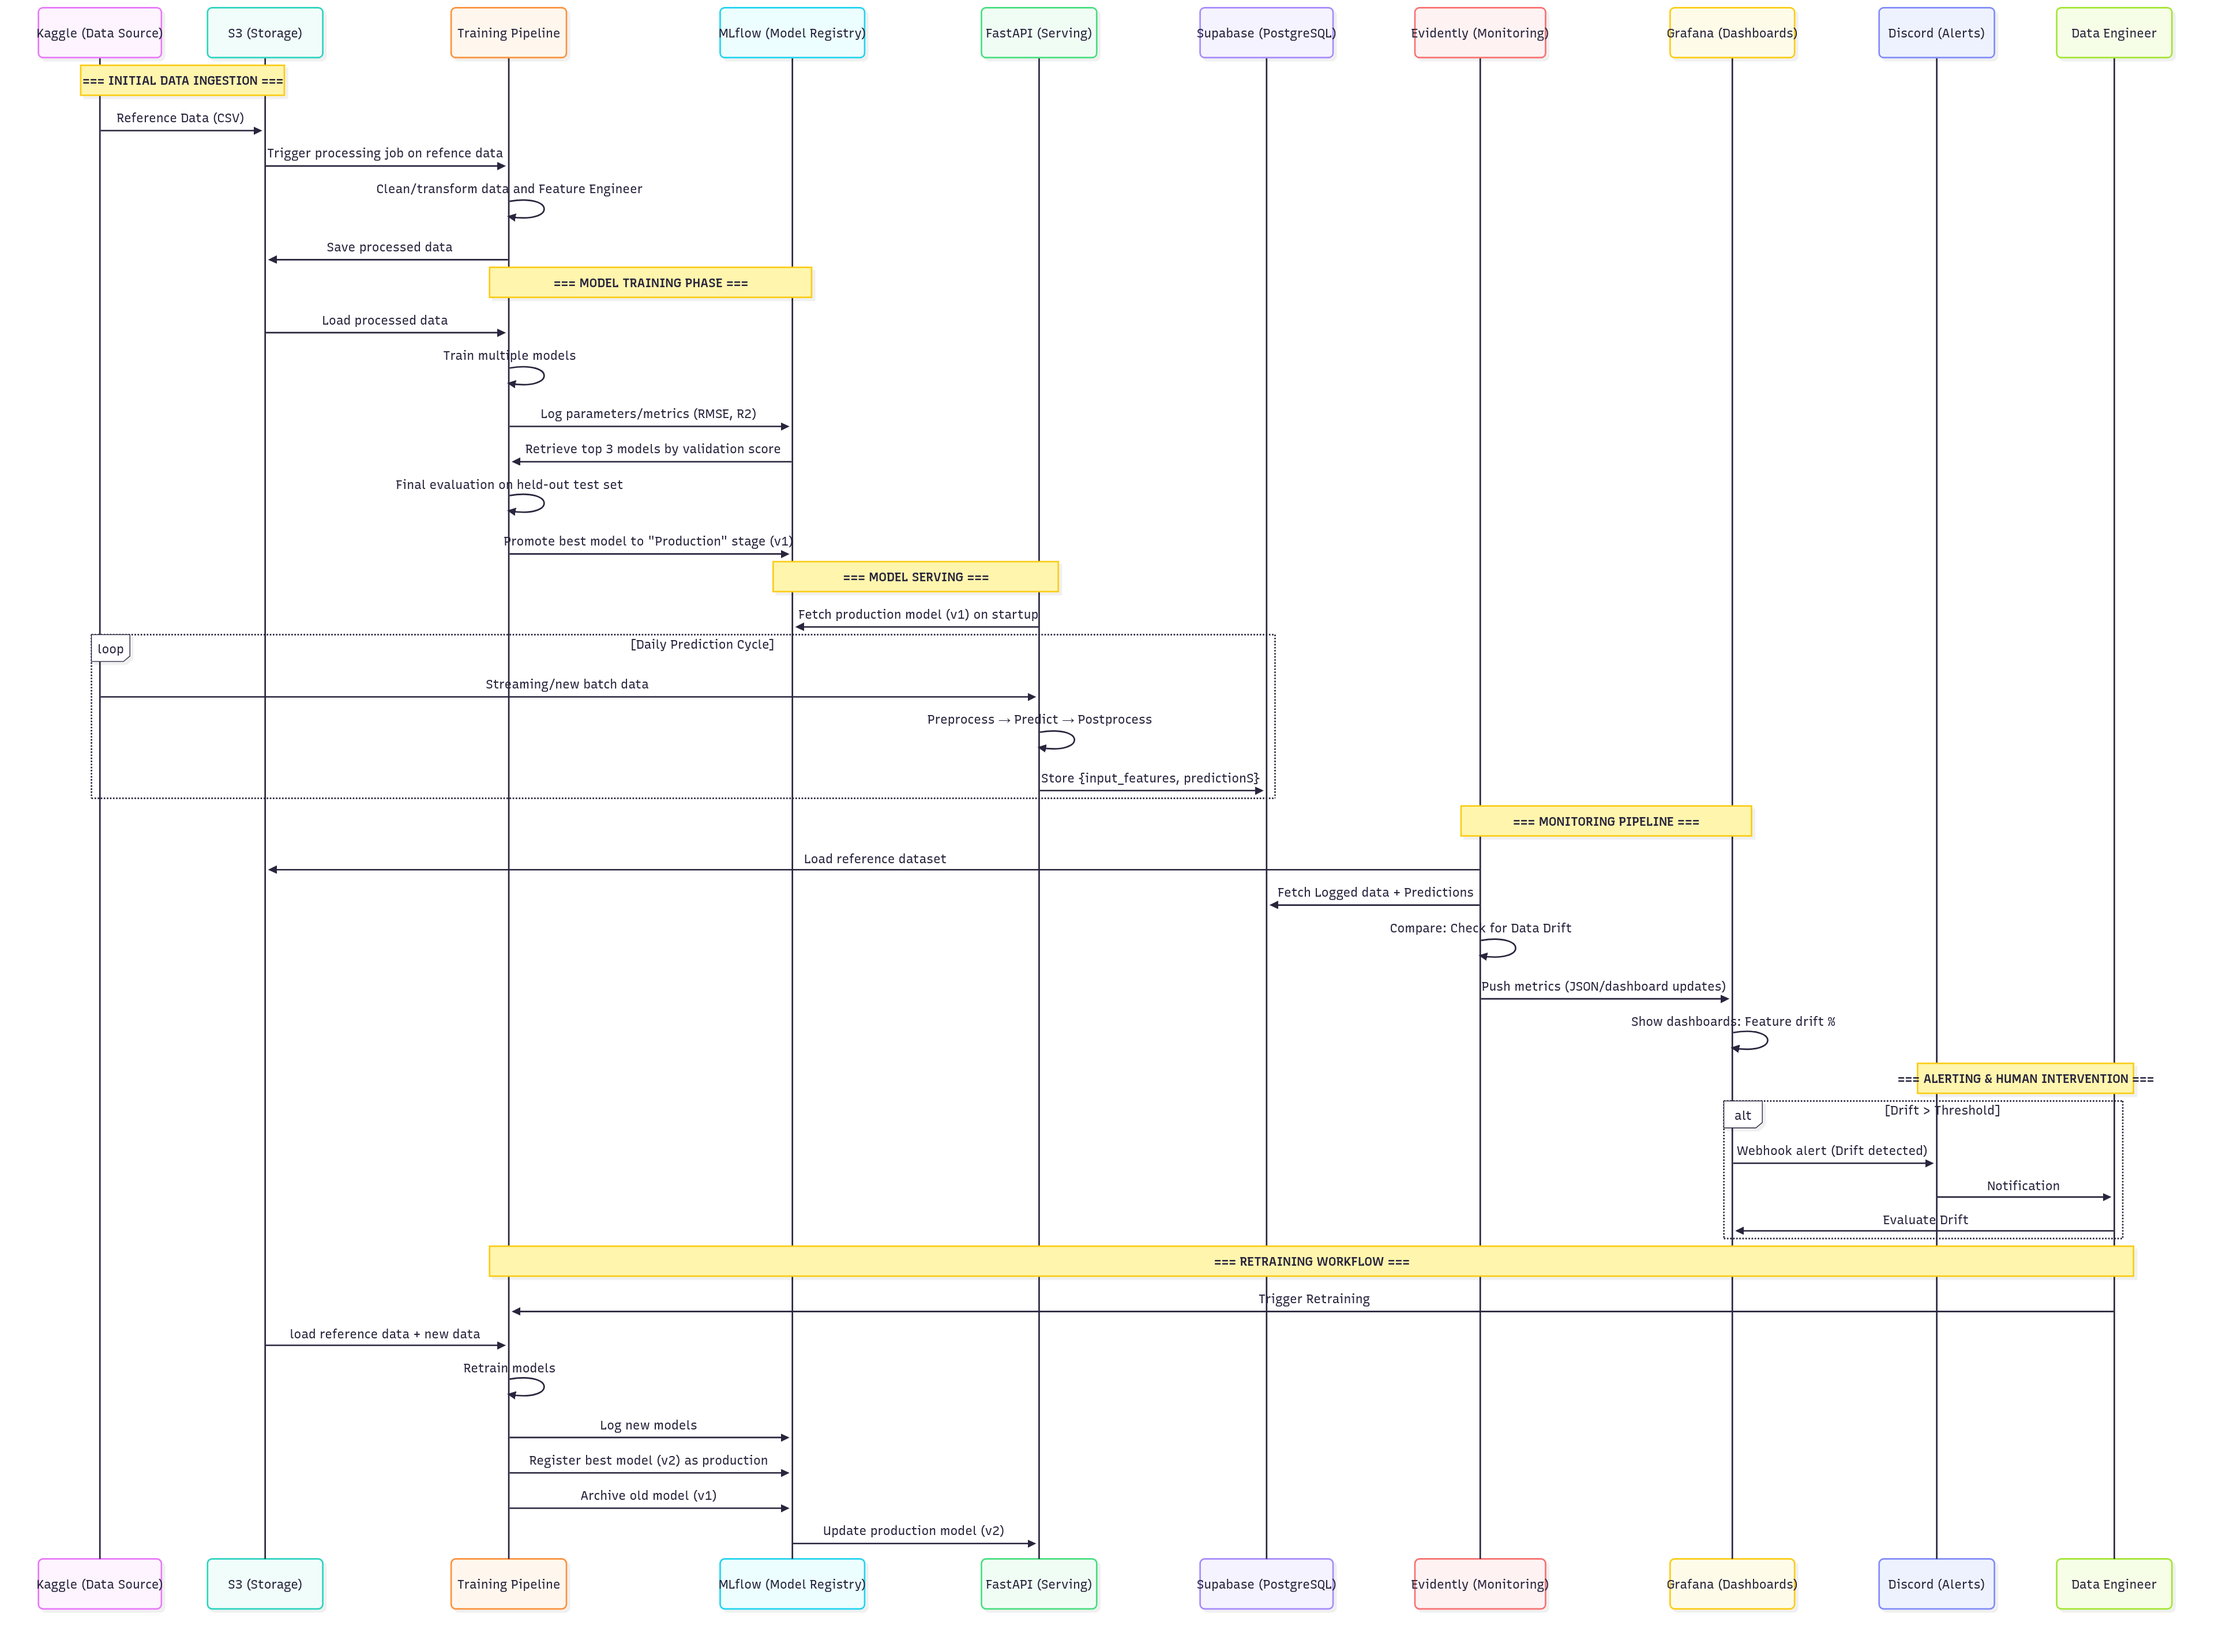
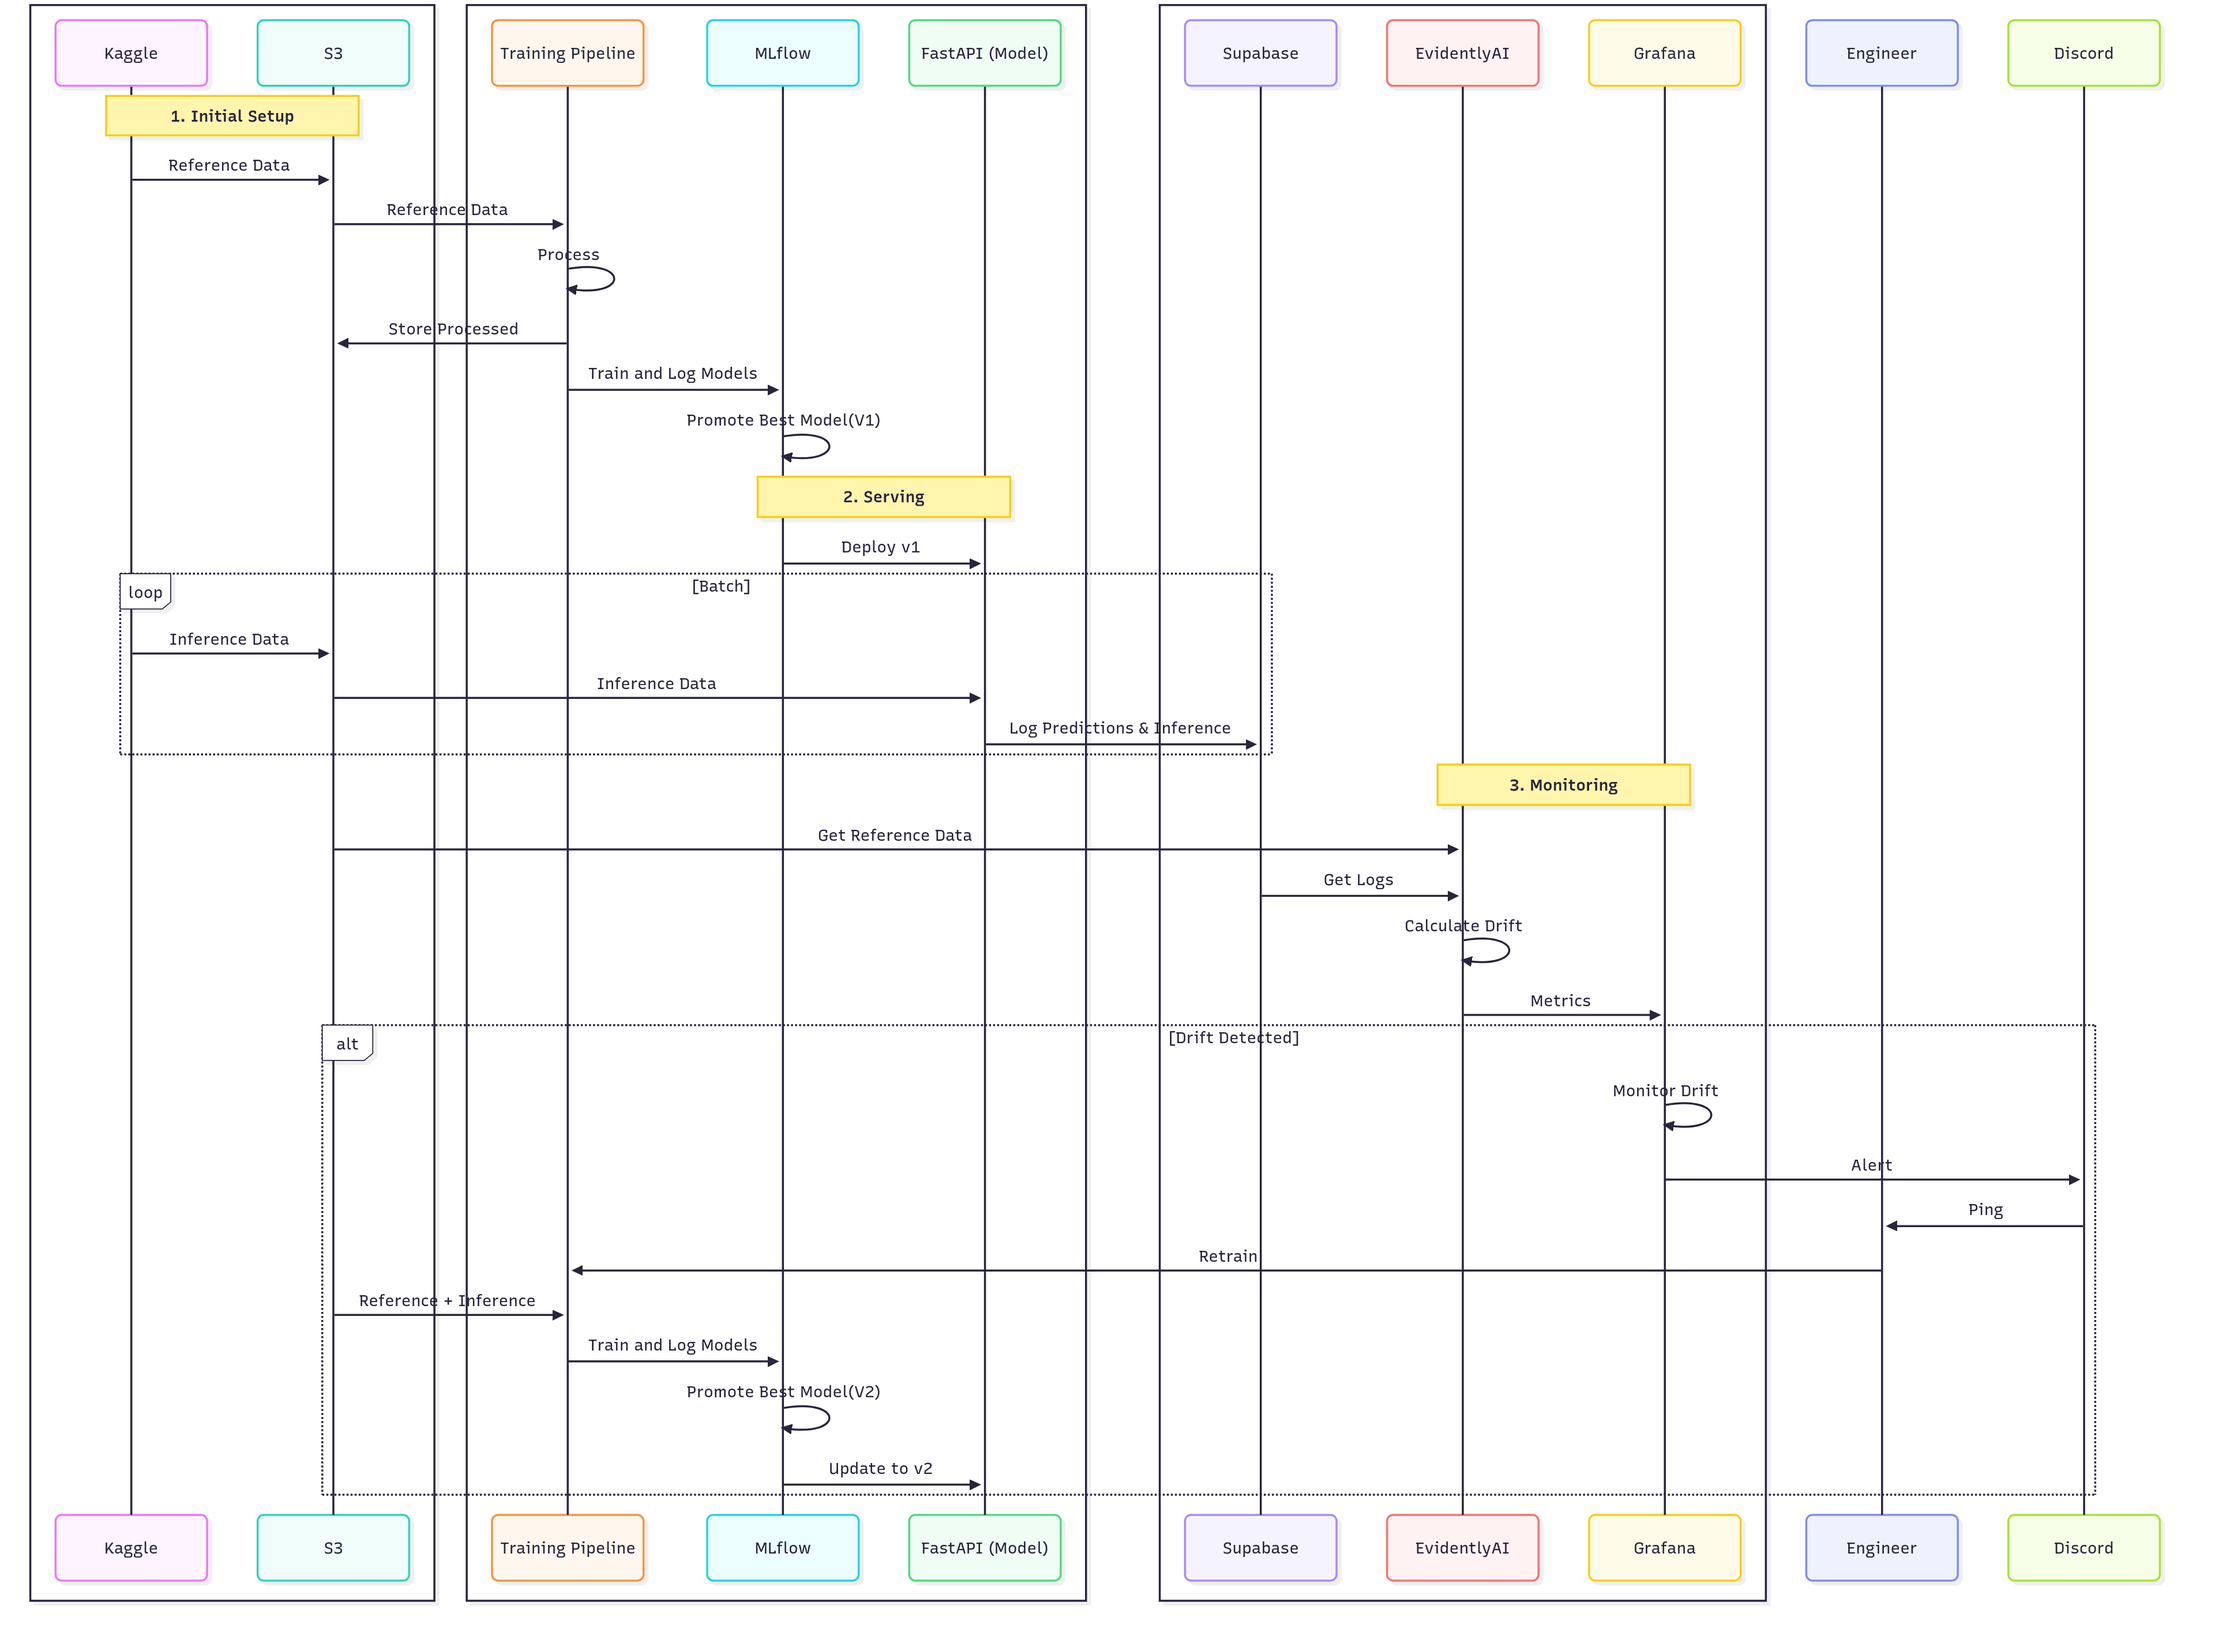
env

diff --git a/README.md b/README.md
@@ -68,7 +68,7 @@ This rich set of features provides the necessary context for a machine learning 
 
 ```
 solar-prediction-mlops_zoomcamp/
-├── 📄 Root Files
+├── Root Files
 │   ├── config.py                 # Main configuration settings
 │   ├── requirements.txt          # Python dependencies
 │   ├── pipeline.py               # Main ML pipeline orchestration
@@ -78,28 +78,28 @@ solar-prediction-mlops_zoomcamp/
 │   ├── Makefile                  # Build automation and commands
 │   └── README.md                 # Project documentation
 │
-├── 🤖 ML Pipeline (`mlpipeline/`)
+├── ML Pipeline (`mlpipeline/`)
 │   ├── data_preparation.py       # Data preprocessing and feature engineering
 │   ├── model_training.py         # Model training logic
 │   ├── evaluate_and_register.py  # Model evaluation and MLflow registration
 │   ├── model_logging.py          # MLflow logging utilities
 │   └── preprocessing_utils.py    # Preprocessing helper functions
 │
-├── 🚀 API Service (`api/`)
+├── API Service (`api/`)
 │   ├── serve_model.py            # FastAPI model serving
 │   ├── schemas.py                # Pydantic data schemas
 │   └── wait_for_mlflow_model.py  # Model loading utilities
 │
-├── 🧪 Testing (`tests/`)
+├── Testing (`tests/`)
 │   ├── unit_tests/               # Unit test modules
 │   └── integration_tests/        # Integration test modules
 │
-├── 📊 Data (`data/`)
+├── Data (`data/`)
 │   ├── training_data.csv         # Training dataset
 │   ├── inference_data.csv        # Inference dataset
 │   └── new_data/                 # New data for retraining
 │
-├── 🐳 Docker (`docker/`)
+├── Docker (`docker/`)
 │   ├── api/                      # API service Dockerfile
 │   ├── monitoring/               # Monitoring service Dockerfile
 │   ├── build.sh                  # Docker build script
@@ -107,7 +107,7 @@ solar-prediction-mlops_zoomcamp/
 │   └── start_monitoring_container.sh # Monitoring container startup
 │  
 │
-└── ☁ Infrastructure (`terraform/`)
+└── Infrastructure (`terraform/`)
     ├── main.tf                   # Main Terraform configuration
     ├── variables.tf              # Terraform variables
     └── terraform.tfstate         # Current state
@@ -131,6 +131,57 @@ solar-prediction-mlops_zoomcamp/
 <img src="images/architecture_diagram.jpeg" alt="Architecture Diagram" width="600"/>
 
 ## Sequence Diagram
-<img src="images/sequence_diagram.png" alt="Sequence Diagram" width="800"/>
+![](images/sequence_diagram.png)
 
 ### Operation
+#### 🔹 1. Data Ingestion
+- Reference data is loaded from **Kaggle** to **Amazon S3**.
+- **S3** acts as the central data storage throughout the pipeline.
+
+#### 🔹 2. Data Processing
+- A **Prefect worker** pulls the raw data from S3.
+- Data is cleaned and transformed.
+- Processed data is saved back to **S3**.
+
+#### 🔹 3. Model Training
+- Multiple models are trained using the processed data.
+- All trained models are **logged to MLflow** (validation metrics only).
+- MLflow stores all **artifacts in S3**.
+
+#### 🔹 4. Model Selection & Evaluation
+- The **top 3 models** (lowest validation RMSE) are selected.
+- These are evaluated on the **test dataset**.
+- The best performing model is:
+  - Registered in MLflow as `best_model`.
+  - **Promoted to Production**.
+
+#### 🔹 5. Model Serving
+- **FastAPI** loads the latest production model from MLflow.
+- It makes predictions on **incoming inference data**.
+
+#### 🔹 6. Logging Inference Data
+- Input data and predictions are logged to a **PostgreSQL database** hosted on **Supabase**.
+
+#### 🔹 7. Monitoring & Drift Detection
+- **Evidently AI** fetches:
+  - Reference data from S3.
+  - Inference data from Supabase.
+- It calculates **data drift** metrics.
+- **Prometheus** scrapes all metrics.
+- **Grafana**:
+  - Visualizes drift and model metrics.
+  - Sends alerts to **Discord** if drift is detected.
+
+#### 🔹 8. Model Retraining
+- An ML engineer inspects the Grafana dashboards.
+- If drift is confirmed, they **trigger the retraining pipeline**.
+- The pipeline:
+  - Merges **reference + inference** data.
+  - Retrains models and re-selects the best one.
+  - Logs the new model to MLflow as **version `v2`**.
+
+#### 🔹 9. Model Reload
+- When **FastAPI refreshes**, it loads the **newly promoted production model** from MLflow (`v2`).
+
+## Installation
+
